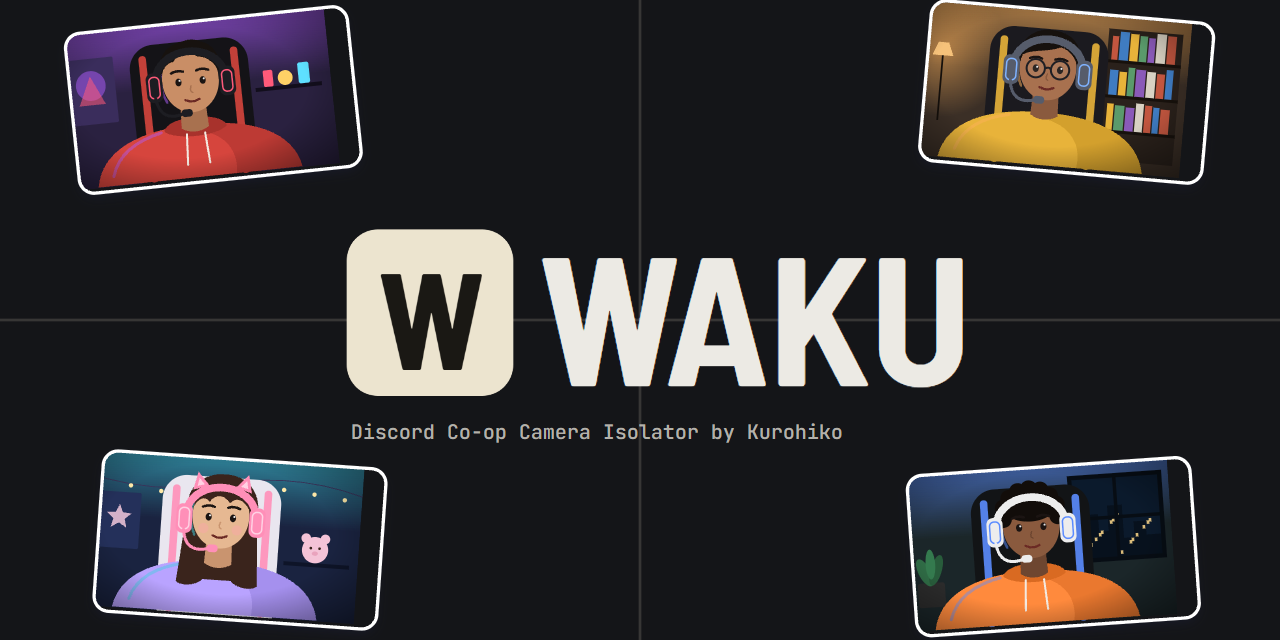
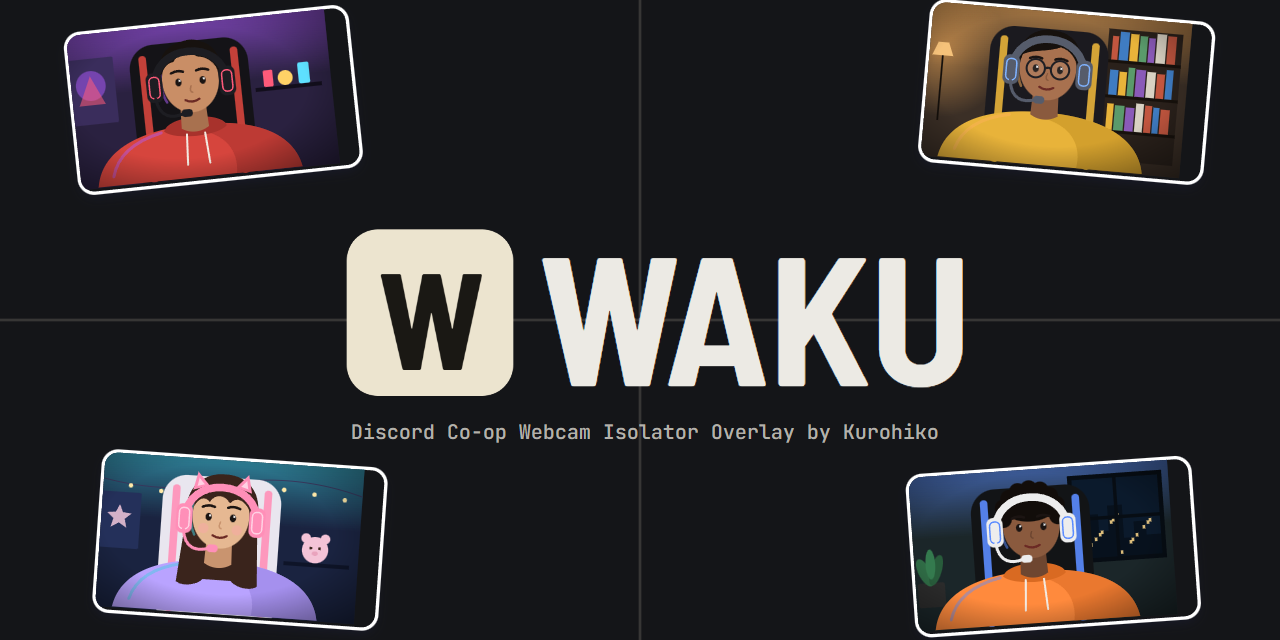
docs: rename to Waku : Discord Co-op Webcam Isolator Overlay

Changed region(s): [[0.5625, 0.6562, 0.75, 0.6875], [0.4062, 0.6562, 0.4688, 0.6875]]

diff --git a/README.id.md b/README.id.md
@@ -1,8 +1,8 @@
 <p align="center">
-  <img src=".github/assets/banner.png" alt="Waku : Discord Co-op Webcam Isolator" width="100%">
+  <img src=".github/assets/banner.png" alt="Waku : Discord Co-op Webcam Isolator Overlay" width="100%">
 </p>
 
-<h1 align="center">Waku : Discord Co-op Webcam Isolator</h1>
+<h1 align="center">Waku : Discord Co-op Webcam Isolator Overlay</h1>
 
 <p align="center">
   <a href="https://kurohiko.id">kurohiko.id</a> ·
@@ -40,7 +40,7 @@ Waku memotong kamera teman co-op dari jendela Discord, menyusunnya jadi satu tam
 
 ## Instal
 
-1. Unduh `Waku-Setup-<versi>.exe` dari halaman [Releases](https://github.com/Kurohiko-id/Waku-Discord-Co-op-Webcam-Isolator/releases).
+1. Unduh `Waku-Setup-<versi>.exe` dari halaman [Releases](https://github.com/Kurohiko-id/Waku-Discord-Co-op-Webcam-Isolator-Overlay/releases).
 2. Jalankan installer. Kalau muncul peringatan Windows SmartScreen, klik **More info** lalu **Run anyway** (installer belum ditandatangani).
 3. Pilih bahasa, selesaikan instalasi, lalu buka Waku.
 
@@ -91,7 +91,7 @@ Klik **Pasang plugin Stream Deck** untuk memasang plugin-nya, atau pakai aksi **
 | Deteksi Manual menyala terus | Baju, latar, atau green screen berwarna hijau. Geser kotak deteksi atau naikkan ambang di tab **Deteksi**, atau pakai mode **Official**. |
 | Discord tidak tersambung | Pastikan aplikasi Discord desktop sedang terbuka, lalu klik pill Discord di bar atas untuk mencoba lagi. |
 
-Untuk melaporkan bug, buka tab **Atur → Laporan bug**, klik **Salin info**, lalu tempel di [Issues](https://github.com/Kurohiko-id/Waku-Discord-Co-op-Webcam-Isolator/issues). Laporan ini tidak berisi token atau secret Discord.
+Untuk melaporkan bug, buka tab **Atur → Laporan bug**, klik **Salin info**, lalu tempel di [Issues](https://github.com/Kurohiko-id/Waku-Discord-Co-op-Webcam-Isolator-Overlay/issues). Laporan ini tidak berisi token atau secret Discord.
 
 ## Data dan uninstall
 

diff --git a/README.md b/README.md
@@ -1,8 +1,8 @@
 <p align="center">
-  <img src=".github/assets/banner.png" alt="Waku : Discord Co-op Webcam Isolator" width="100%">
+  <img src=".github/assets/banner.png" alt="Waku : Discord Co-op Webcam Isolator Overlay" width="100%">
 </p>
 
-<h1 align="center">Waku : Discord Co-op Webcam Isolator</h1>
+<h1 align="center">Waku : Discord Co-op Webcam Isolator Overlay</h1>
 
 <p align="center">
   <a href="https://kurohiko.id">kurohiko.id</a> ·
@@ -40,7 +40,7 @@ Waku crops your co-op friends' cameras out of the Discord window, arranges them 
 
 ## Install
 
-1. Download `Waku-Setup-<version>.exe` from [Releases](https://github.com/Kurohiko-id/Waku-Discord-Co-op-Webcam-Isolator/releases).
+1. Download `Waku-Setup-<version>.exe` from [Releases](https://github.com/Kurohiko-id/Waku-Discord-Co-op-Webcam-Isolator-Overlay/releases).
 2. Run the installer. If Windows SmartScreen shows a warning, click **More info**, then **Run anyway** (the installer isn't signed yet).
 3. Choose a language, finish the install, and open Waku.
 
@@ -91,7 +91,7 @@ Click **Install Stream Deck plugin** to install the plugin, or use a Stream Deck
 | Manual detection stays lit | Green clothing, background, or green screen. Move the detection box, raise the threshold in the **Detection** tab, or use **Official** mode. |
 | Discord won't connect | Make sure the Discord desktop app is open, then click the Discord pill in the top bar to retry. |
 
-To report a bug, open **Settings → Bug report**, click **Copy info**, and paste it into [Issues](https://github.com/Kurohiko-id/Waku-Discord-Co-op-Webcam-Isolator/issues). The report contains no Discord token or secret.
+To report a bug, open **Settings → Bug report**, click **Copy info**, and paste it into [Issues](https://github.com/Kurohiko-id/Waku-Discord-Co-op-Webcam-Isolator-Overlay/issues). The report contains no Discord token or secret.
 
 ## Data and uninstall
 
